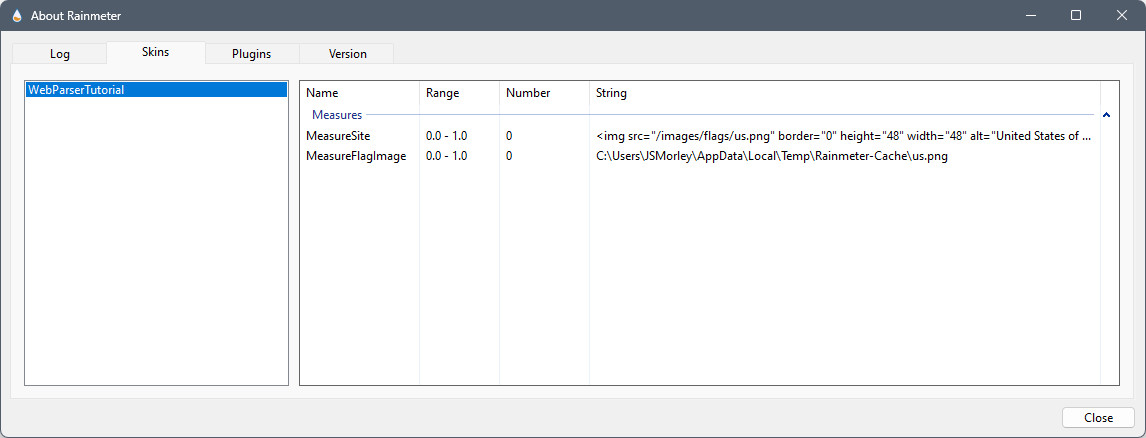
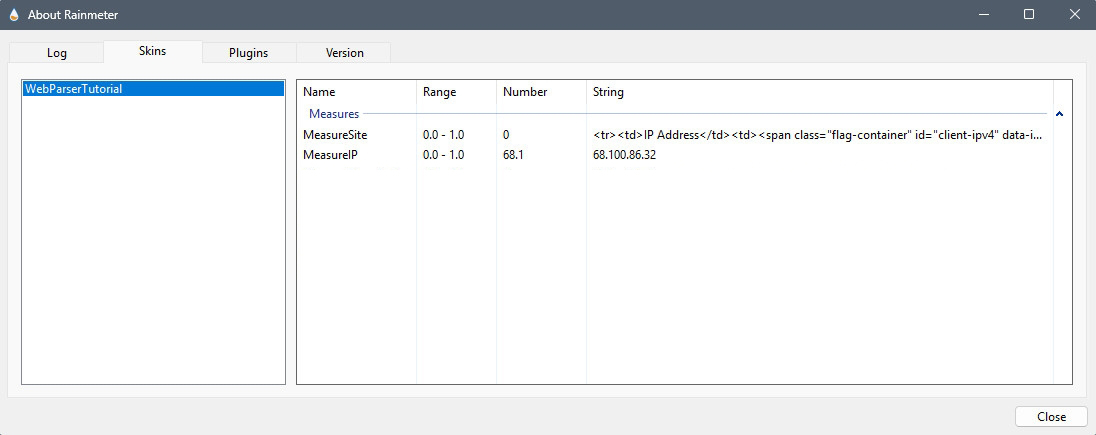
Updated WebPaser Tutorial

diff --git a/source/tips/webparser-tutorial.html b/source/tips/webparser-tutorial.html
@@ -81,7 +81,7 @@ MeasureName=MeasureChild2
 
 <h2>Our tutorial skin</h2>
 
-<p>So what we are going to do today is parse a website <a href="https://www.ipaddress.my/" target="blank">https://www.ipaddress.my/</a> to get our IP and location information to use in a skin. Click that link now if you want to open the page in a new tab/window.</p>
+<p>So what we are going to do today is parse a website <a href="https://browserleaks.com/ip" target="blank">https://browserleaks.com/ip</a> to get our IP and location information to use in a skin. Click that link now if you want to open the page in a new tab/window.</p>
 
 <p>Here is what the web page we are going to parse looks like, with the information we are going to extract numbered:</p>
 <div class="exampleprev">
@@ -107,7 +107,7 @@ DynamicWindowSize=1
 
 [MeasureSite]
 Measure=WebParser
-URL=https://www.ipaddress.my/
+URL=https://browserleaks.com/ip
 RegExp=
 Debug=2
 
@@ -122,43 +122,43 @@ Meter=String
 
 <p>Now let's look at the first bit of information we want to retrieve.</p>
 
-<p>First we will get the flag image that is displayed centered near the top of the page.</p>
+<p>First we will get the local IP address returned for our PC.</p>
 
-<p>Open up WebParserDump.txt (the saved output from the website) and search for the location where the site is storing these flag images:</p>
+<p>Open up WebParserDump.txt (the saved output from the website) and search for the location where the site is displaying the IP Address data:</p>
 
 ``` html
-		<img src="/images/flags/us.png" border="0" height="48" width="48" alt="United States of America flag" align="absMiddle" /> </li>
+		<tr><td>IP Address</td><td><span class="flag-container" id="client-ipv4" data-ip="68.100.86.32"
 ```
 
-<p>If we search for <code>/images/flags/</code>, it will take us to the right place. What we want is the name of the file that follows <code>/images/flags/</code>. In this example, <code>us.png</code>.</p>
+If we search for <code>data-ip=</code>, it will take us to the right place. What we want is the IP Address that follows, enclosed in quotes. In this example, <code>68.100.86.32</code>.</p>
 
 <p>Let's start building our <code>RegExp</code> option:</p>
 
 ``` html
 			[MeasureSite]
 			Measure=WebParser
-			URL=https://www.ipaddress.my/
-			RegExp=(?siU)<img src="/images/flags/(.*)"
+			URL=https://browserleaks.com/ip
+			RegExp=(?siU)data-ip="(.*)"
 			UpdateRate=3600
 ```
 
 <p>The important options are:</p>
 
-<p><b>URL=https://www.ipaddress.my/</b> - The URL to the website. It can be set as a variable in the [Variables] section to make it easier to find and change if you want.</p>
+<p><b>URL=https://browserleaks.com/ip</b> - The URL to the website. It can be set as a variable in the [Variables] section to make it easier to find and change if you want.</p>
 
-<p><b>RegExp=(?siU)&ltimg src="/images/flags/(.*)"</b> - Ah, the meat and potatoes...</p>
+<p><b>RegExp=(?siU)data-ip="(.*)"</b> - Ah, the meat and potatoes...</p>
 
 <p>You are telling RegExp to:</p>
 
-<p>Use the (?siU) expression directives, (described earlier) search for <code>&ltimg src="/images/flags/</code> and capture everything to a StringIndex <code>(.*)</code> until it sees <code>"</code>, where it will stop.</p>
+<p>Use the (?siU) expression directives, (described earlier) search for <code>data-ip="</code> and capture everything into a StringIndex <code>(.*)</code> until it sees <code>"</code>, where it will stop.</p>
 
 <p>So if we look again at our output in WebParserDump.txt </p>
 
 ``` html
-		<img src="/images/flags/us.png" border="0" height="48" width="48" alt="United States of America flag" align="absMiddle" /> </li>
+		<tr><td>IP Address</td><td><span class="flag-container" id="client-ipv4" data-ip="68.100.86.32"
 ```
 
-<p>You can see that we will return <code>us.png</code> in StringIndex 1</p>
+<p>You can see that we will return <code>68.100.86.32</code> in StringIndex 1</p>
 
 <p><b>UpdateRate=3600</b> - We want to check the website at a rate 3600 times the value in the "Update=" parameter in the "Rainmeter" section. As this defaults to "1000" or once every 1000 milliseconds (1 second) we will be running WebParser every 3600 seconds or 60 minutes. This is plenty often, as your IP information doesn't change much and you don't want to "spam" the website with requests. You may well find yourself blocked...</p>
 
@@ -166,29 +166,21 @@ Meter=String
 
 <p>Then, we build a "child" measure, to grab that information from StringIndex 1 of the "parent" measure.</p>
 
-<p>What we really want is not the file name of the flag image, but the image itself. WebParser can easily do this.</p>
-
-<p>As long as the value from the parent measure that is returned in the StringIndex number is the URL to an image file, you can simply add the <code>Download=1</code> option to the child measure, and the image will be downloaded. The value of the child measure will then be the full <em>local</em> path to the file in the Windows TEMP folder Rainmeter will create.</p>
-
-<p>However, wait.. the value "us.png" that is returned is not a full URL to the image. There is also a "relative path" to the image on the remote server. That's ok, we can still get the image.</p>
-
-<h3>Creating the child measure for the the first StringIndex, the flag image value</h3>
+<h3>Creating the child measure for the the first StringIndex, the IP Address value</h3>
 
 ``` ini
-[MeasureFlagImage]
-Measure=WebParser
-URL=https://www.ipaddress.my/images/flags/[MeasureSite]
+[MeasureIP]
+Measure=Plugin
+Plugin=WebParser
+URL=[MeasureSite]
 StringIndex=1
-Download=1
 ```
-
-<p>What we are doing is appending the first part of the URL, the one we used on the parent measure to the beginning of the <code>URL</code> option, followed by the relative path that flag images are stored in on the site, which is <code>/images/flags/</code> and a reference to [MeasureSite] and the <code>StringIndex=2</code> option. Then we add <code>Download=1</code> and that full URL of <code>https://www.ipaddress.my/images/flags/us.png</code> will be used to retrieve the image file.</p>
 
 <p>The value of the child measure will in my case be:</p>
 
-<p><code>C:\Users\Jeffrey\AppData\Local\Temp\Rainmeter-Cache\us.png</code></p>
+<p><code>68.100.86.32</code></p>
 
-<p>Which we can use in an Image meter later to display it.</p>
+<p>Which we can use in a String meter later to display it.</p>
 
 <h3>Testing as we go</h3>
 
@@ -200,75 +192,72 @@ Download=1
 
 <h2>The second child measure</h2>
 
-<p>Now let's get the next bit of information we want from the website. (Remember, the RegExp reads the website in order from top to bottom, so you need to use the correct order in the "RegExp=" statement. You can display the information in any order you want on your skin however.)</p>
+<p>Now let's get the next bit of information we want from the website. Remember, the RegExp reads the website in order from top to bottom, so you need to use the correct order in the "RegExp=" statement. You can display the information in any order you want on your skin however.</p>
 
-<p>The next information in the WebParserDump file that we want is the IP address for your computer that the site detects:</p>
+<p>The next information in the WebParserDump file that we want is the flag image for your detected country:</p>
 
 ``` html
-<tr>
-<td width="40%">IP Address:</td>
-<td width="60%"><a href="https://www.ip2location.com/demo/68.100.86.32" target="_blank">68.100.86.32</a></td>
-</tr>
+<tr><td>Country</td><td><span class="flag-container" id="lookup-flag" data-iso_code="US"><img class="flag-icon" src="/img/flags/US.png"
 ```
+<p>What we really want is not the file name of the flag image, but the image itself. WebParser can easily do this.</p>
 
-<p>So we want to add to our "RegExp=" statement, search for th IP address, and return the result in the next StringIndex on the parent measure:</p>
+<p>As long as the value from the parent measure that is returned in the StringIndex number is the URL to an image file, you can simply add the Download=1 option to the child measure, and the image will be downloaded. The value of the child measure will then be the full local path to the file in the Windows TEMP folder Rainmeter will create.</p>
 
-``` ini
+We will modify our RegExp statement to get the flag data into a second StringIndex:
+
+```ini
 [MeasureSite]
-Measure=WebParser
-URL=https://www.ipaddress.my/
-RegExp=(?siU)<img src="/images/flags/(.*)".*<td width="40%">IP Address:</td>.*target="_blank">(.*)<
+Measure=Plugin
+Plugin=WebParser
+URL=https://browserleaks.com/ip
+RegExp=(?siU)data-ip="(.*)".*<tr><td>Country</td>.*src="(.*)"
 UpdateRate=3600
 ```
 
-<p>So after the first pair of start/stop searches we already did, we are adding:</p>
+<p>However, wait.. the value <b>/img/flags/US.png</b> that is returned is not a full URL to the image. There is also a "relative path" to the image on the remote server. That's ok, we can still get the image.
 
-<p><code>.*&lttd width="40%"&gtIP Address:&lt/td&gt.*target="_blank"&gt(.*)&lt</code></p>
-
-<p>This will tell RegExp to skip everything until it finds <code>&lttd width="40%"&gtIP Address:&lt/td&gt.*target="_blank"&gt</code> and then capture everything until it sees <code>&lt</code> and put it in <code>StringIndex=2</code>. The result in my example will be <code>68.100.86.32</code>.</p>
-
-<h3>Creating the child measure for the the second StringIndex, the IP address value</h3>
+Creating the child measure for the the second StringIndex, the flag image value
 
 ``` ini
-			[MeasureIP]
-			Measure=WebParser
-			URL=[MeasureSite]
-			StringIndex=2
+[MeasureFlagImage]
+Measure=Plugin
+Plugin=WebParser
+URL=https://browserleaks.com[MeasureSite]
+StringIndex=2
+Download=1
 ```
+
+What we are doing is appending the first part of the URL, the one we used on the parent measure to the beginning of the URL option, followed by the relative path that flag images are stored in on the site, which is /img/flags/ and a reference to [MeasureSite] and the StringIndex=2 option. Then we add Download=1 and that full URL of https://browserleaks.com/img/flags/US.png will be used to retrieve the image file.
+
+The value of the child measure will in my case be:
+
+C:\Users\Jeffrey\AppData\Local\Temp\Rainmeter-Cache\us.png
 
 <h2>The third child measure</h2>
 
-<p>Now we want to get the name of the "City":</p>
+<p>Now we want to get the name of the "Country":</p>
 
 ``` html
-<tr>
-<td>City:</td>
-<td>Fairfax</td>
-</tr>
+title="United States (US)"><span class="flag-text wball">United States <
 ```
 
-<p>So we want to add to our "RegExp=" statement, search for the city name, and return the result in the next StringIndex on the parent measure:</p>
+<p>So we want to add to our "RegExp=" statement, search for the Country name, and return the result in the next StringIndex on the parent measure:</p>
 
 ``` ini
 [MeasureSite]
 Measure=WebParser
-URL=https://www.geoiptool.com/
-RegExp=(?siU)<img src="/images/flags/(.*)".*<td width="40%">IP Address:</td>.*target="_blank">(.*)<.*<td>City:</td>.*<td>(.*)</td>
+URL=https://browserleaks.com/ip
+RegExp=(?siU)data-ip="(.*)".*<tr><td>Country</td>.*src="(.*)".*<span class="flag-text wball">(.*)<
 ```
-
-<p>So after the start/stop searches we already had on the RegExp option, we are adding:</p>
-
-<p><code>.*&lttd&gtCity:&lt/td&gt.*&lttd&gt(.*)&lt/td&gt</code></p>
-
-<p>This will tell RegExp to skip everything until it sees <code>&lttd&gtCity:&lt/td&gt.*&lttd&gt</code> then capture everything until it sees <code>&lt/td&gt</code> and put it in <code>StringIndex=3</code>. The result in my example will be <code>Fairfax</code>.</p>
 
 <h3>Creating the child measure for the the third StringIndex, the city name value</h3>
 
 ``` ini
-			[MeasureCity]
-			Measure=WebParser
-			URL=[MeasureSite]
-			StringIndex=3
+[MeasureCountryName]
+Measure=Plugin
+Plugin=WebParser
+URL=[MeasureSite]
+StringIndex=3
 ```
 
 <h3>And so on...</h3>
@@ -277,33 +266,57 @@ RegExp=(?siU)<img src="/images/flags/(.*)".*<td width="40%">IP Address:</td>.*ta
 
 ``` ini
 [MeasureSite]
-Measure=WebParser
-URL=https://www.ipaddress.my/
-RegExp=(?siU)<img src="/images/flags/(.*)".*<td width="40%">IP Address:</td>.*target="_blank">(.*)<.*<td>City:</td>.*<td>(.*)</td>.*<td>Country:</td>.*target="_blank">(.*)<.*<td>State:</td>.*<td>(.*)</td>.*<td>Latitude:</td>.*<td>(.*)</td>.*<td>Longitude:</td>.*<td>(.*)</td>
+Measure=Plugin
+Plugin=WebParser
+URL=https://browserleaks.com/ip
+RegExp=(?siU)data-ip="(.*)".*<tr><td>Country</td>.*src="(.*)".*<span class="flag-text wball">(.*)<.*<tr><td>State/Region</td><td>(.*)<.*<tr><td>City</td><td>(.*)<.*<span id="coords-click">Coordinates</span>.*data-lat="(.*)".*data-lon="(.*)"
 UpdateRate=3600
 ```
 
-<p>and the rest of the child measures:</p>
+<p>and all of the child measures:</p>
 
 
 ``` ini
+[MeasureIP]
+Measure=Plugin
+Plugin=WebParser
+URL=[MeasureSite]
+StringIndex=1
+
+[MeasureFlagImage]
+Measure=Plugin
+Plugin=WebParser
+URL=https://browserleaks.com[MeasureSite]
+StringIndex=2
+Download=1
+
 [MeasureCountryName]
-Measure=WebParser
+Measure=Plugin
+Plugin=WebParser
+URL=[MeasureSite]
+StringIndex=3
+
+[MeasureRegion]
+Measure=Plugin
+Plugin=WebParser
 URL=[MeasureSite]
 StringIndex=4
 
-[MeasureRegion]
-Measure=WebParser
+[MeasureCity]
+Measure=Plugin
+Plugin=WebParser
 URL=[MeasureSite]
 StringIndex=5
 
 [MeasureLatitude]
-Measure=WebParser
+Measure=Plugin
+Plugin=WebParser
 URL=[MeasureSite]
 StringIndex=6
 
 [MeasureLongitude]
-Measure=WebParser
+Measure=Plugin
+Plugin=WebParser
 URL=[MeasureSite]
 StringIndex=7
 ```
@@ -371,16 +384,16 @@ Text=Country:
 [MeterFlagImage]
 Meter=Image
 MeasureName=MeasureFlagImage
-X=90r
-Y=-1r
-H=30
+X=70r
+Y=4r
+H=20
 W=30
 
 [MeterCountryName]
 Meter=String
 MeasureName=MeasureCountryName
 X=315
-Y=3r
+Y=-2r
 FontSize=11
 FontColor=252,251,202,255
 SolidColor=0,0,0,1
